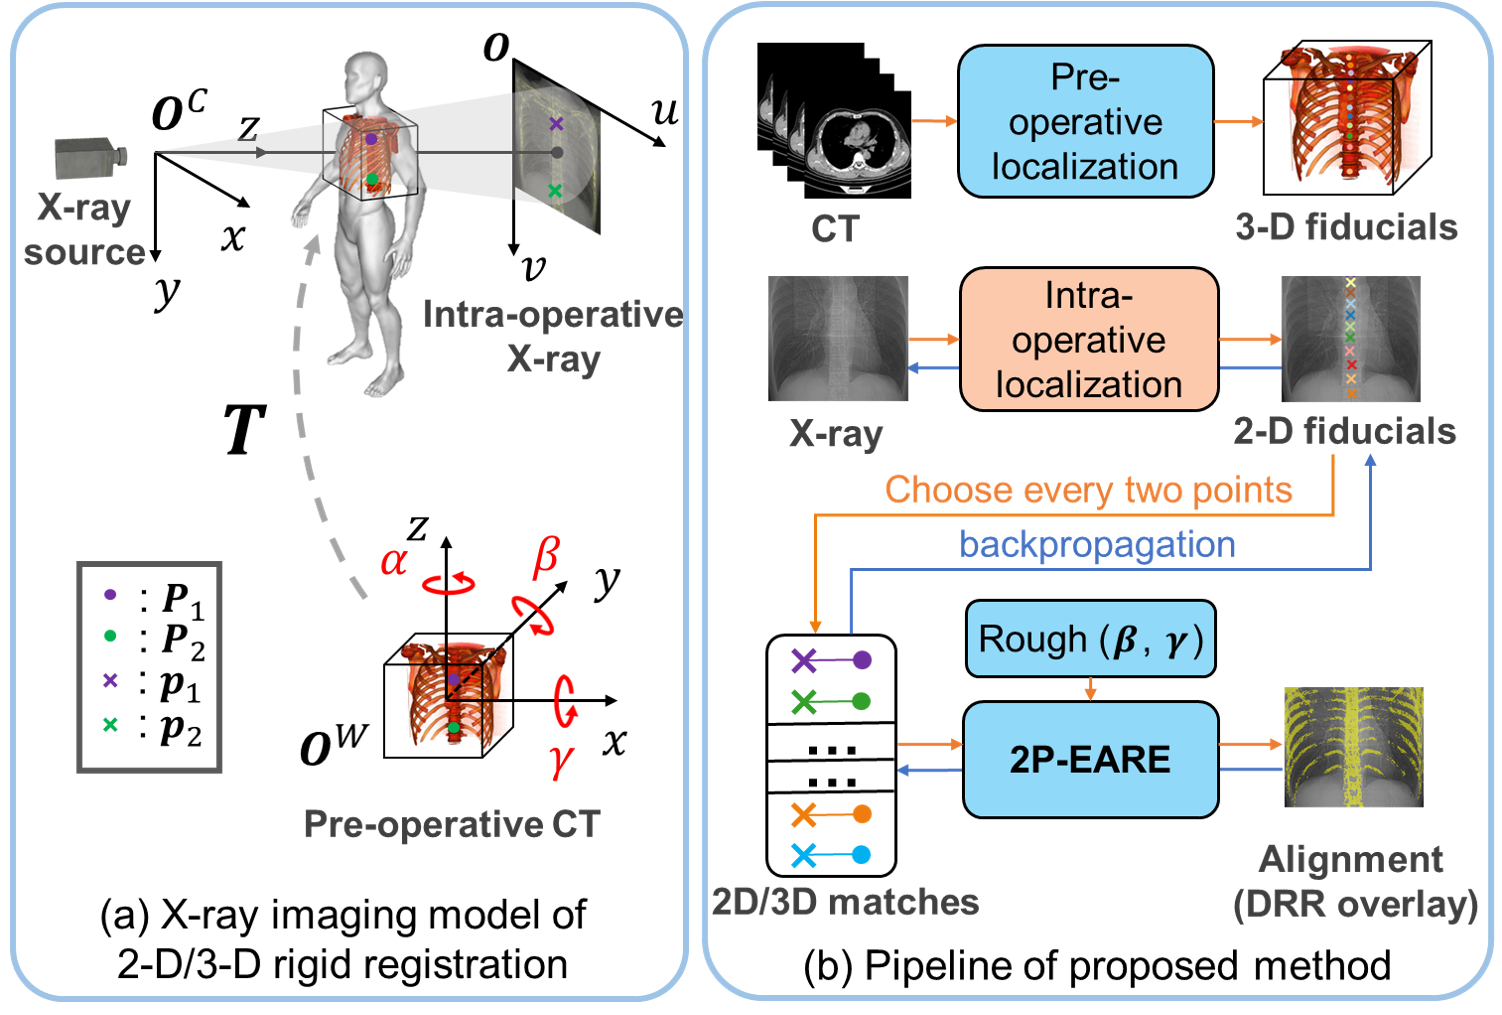
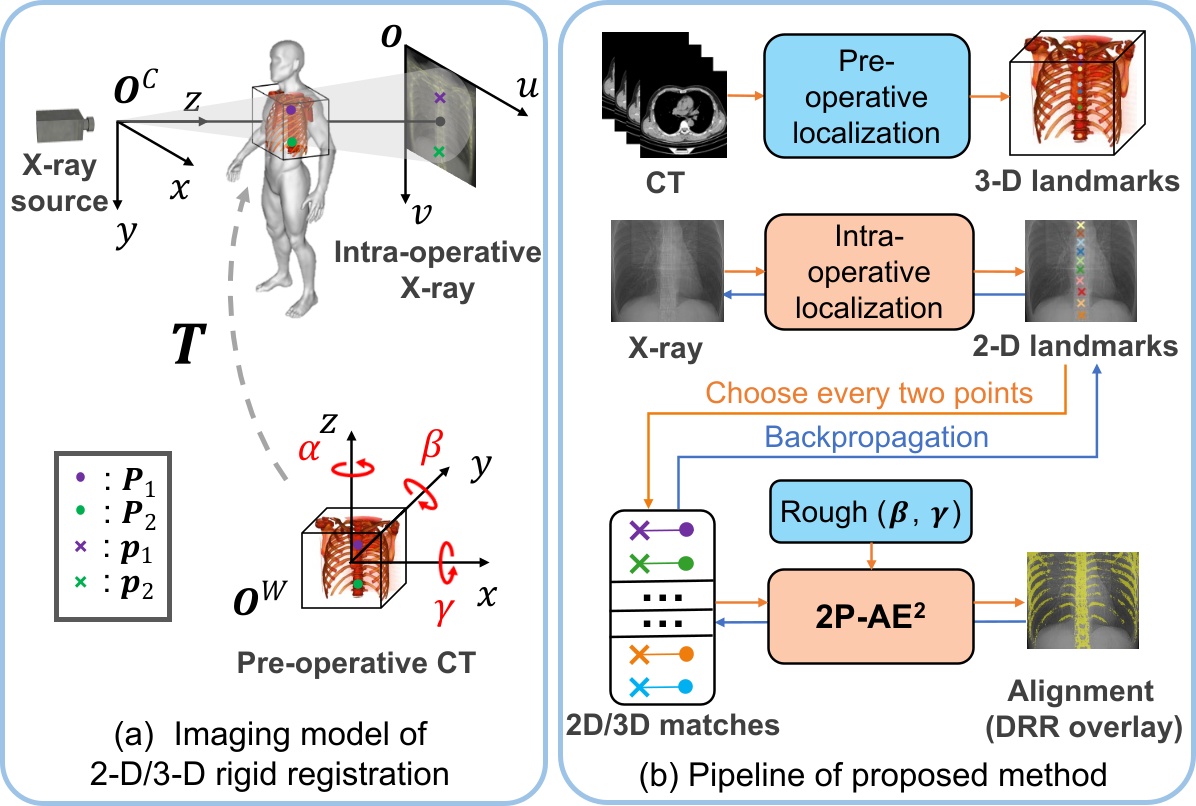
up to date

diff --git a/README.md b/README.md
@@ -1,18 +1,18 @@
-# Robust and Automatic Initialization for 2-D/3-D Rigid Registration with Error Awareness
+# End-to-end Adaptive Initialization with Error-awareness for Fully Automatic 2-D/3-D Rigid Registration in Thoracic Surgeries
 
 By Lilu Liu, Yanmei Jiao, Zhou An, Honghai Ma, Chunlin Zhou, Haojian Lu, Jian Hu, Rong Xiong, Yue Wang.
 
-&#x26A0; **More details of this repository are COMING SOON!**
+<!-- &#x26A0; **More details of this repository are COMING SOON!** -->
 
 ## Introduction
-2-D/3-D rigid registration is commonly used to provide on-site guidance for clinicians by aligning the pre-operative 3-D computed tomography with the intra-operative 2-D X-ray image. For automatic 2-D/3-D registration, a good initialization is required to supply an initial alignment within the capture range of existing intensity-based registration methods. However, performing a robust initialization is still challenging due to the low quality of X-ray images which brings unavoidable localization errors to fiducials of registration. In this paper, we propose an error-aware framework to robustly and automatically initialize the 2-D/3-D registration for thoracic surgeries. On the simulated dataset, our method achieves 10.34 mm of median mean target registration error (mTRE) and 9.17% of gross failure rate (GFR). On the clinical dataset, our method achieves 2.25 mm of median mTRE and 12.5% of GFR with intensity-based refinement, outperforming the state-of-the-art initialization approaches (p-value<0.05). This work is promising to free clinicians from long-term manual registration and can be extended to other surgical procedures demanding robust and accurate target guidance.
+2-D/3-D rigid registration is commonly used to provide on-site guidance for clinicians by aligning 3-D CT with 2-D X-ray image. Typically, a good initialization is required to provide an initial alignment within the capture range of existing intensity-based registration methods. However, performing a robust initialization is challenging due to the low quality of X-ray images which brings unavoidable localization errors of registration landmarks. In this paper, we propose an end-to-end adaptive error-aware method to robustly initialize the 2-D/3-D registration for thoracic surgeries. On the simulated dataset, our method achieves 10.34mm of mean target registration error (mTRE) and 9.17% of gross failure rate (GFR). On the clinical dataset, our method achieves 2.25mm of mTRE and 12.5% of GFR with intensity-based refinement, outperforming the state-of-the-art approaches (p-value<0.05). This work paves the way for robust initialization in thoracic surgeries and can be applied in other surgical procedures demanding robust target guidance.
 
 <!-- <img src="figs/overview.png#pic_left" alt="avatar" style="zoom:30%;" /> -->
 <img src="figs/overview.png#pic_left" alt="avatar" style="zoom:40%;" />
 
 This repository includes:
 * Training and testing scripts using Python and PyTorch;
-* Pretrained models of the proposed 2P-EARE and 2P-EARE-e2e; and
+* Pretrained models of the proposed 2P-AE<sup>2</sup> and 2P-AE<sup>2</sup>-e2e; and
 * Processed training, validation and testing datasets derived from thorax CT scans and X-ray images.
 
 Code has been tested with Python 3.7, CUDA 10.1 and PyTorch 1.6.
